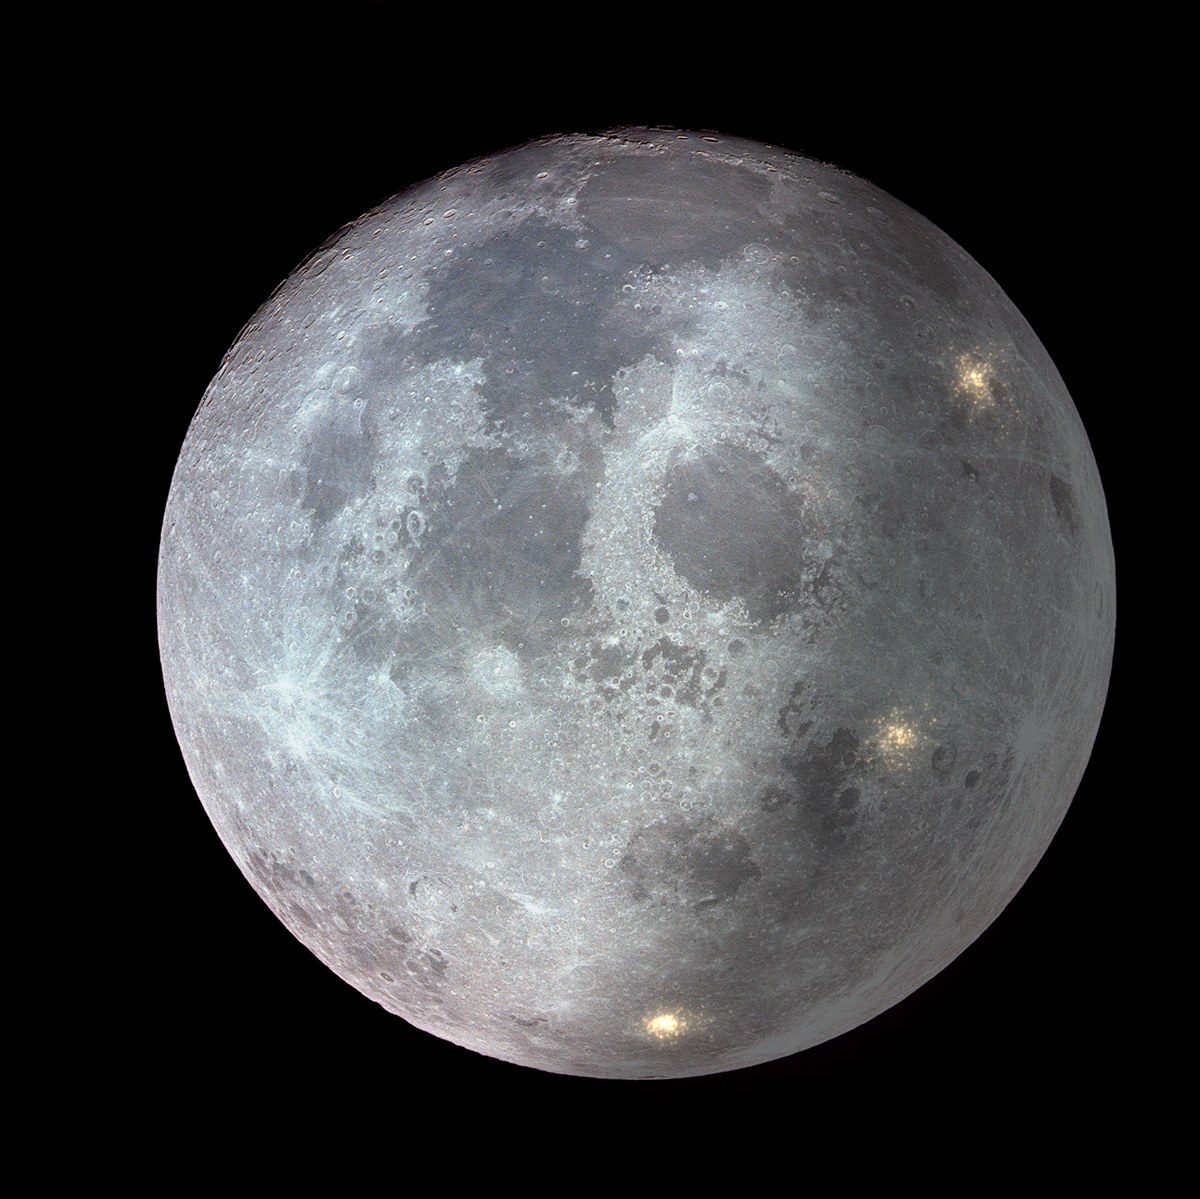
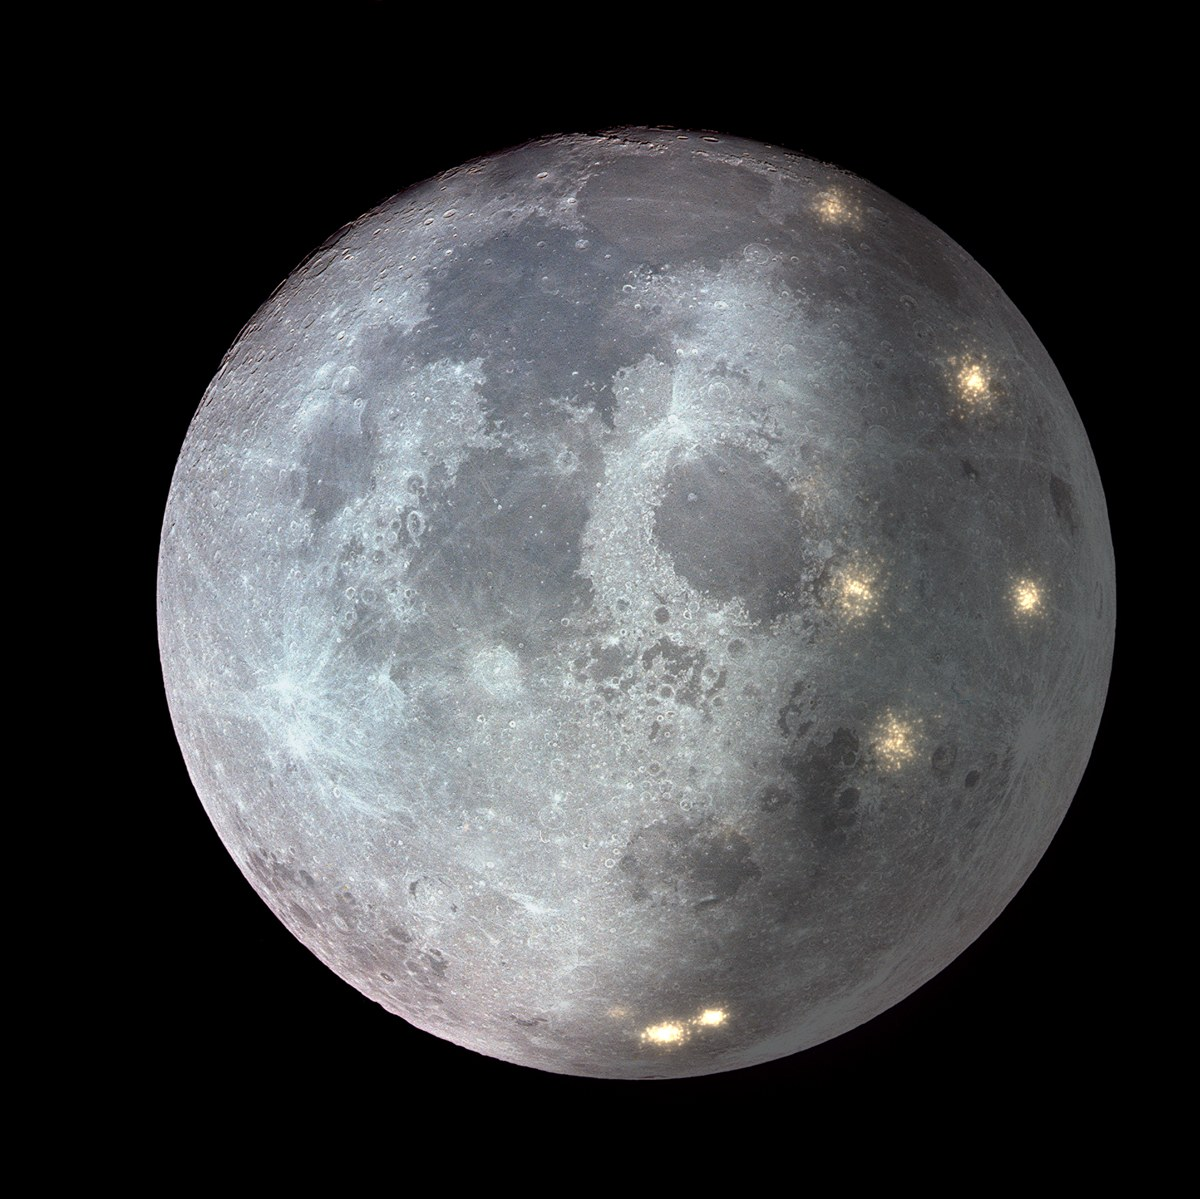
Faster Moon and Mars transitions, more developed Moon, plainer copy
- Moon and Mars now reach their future state in a few seconds
- Settled Moon gains more settlements, south-pole mining colonies and a launch track
- Rewrites the Moon, Mars, cislunar, belt and heliopause copy and several world blurbs

Claude-Session: https://claude.ai/code/session_01GXNSjP8nvqJDbdjoJYqwpt

diff --git a/index.html b/index.html
@@ -94,10 +94,10 @@ p{margin:0;max-width:34em;color:#C9CED6}
 .m-mars{-webkit-mask-image:radial-gradient(ellipse 50% 50% at 50% 50%,#000 91%,transparent 99%);mask-image:radial-gradient(ellipse 50% 50% at 50% 50%,#000 91%,transparent 99%)}
 .morph img{position:absolute;inset:0;width:100%;height:100%;object-fit:contain;transition:opacity .8s ease}
 .morph img+img{opacity:0}
-.morph.live img+img{opacity:1;transition:opacity 4s ease}
-.morph.live img:nth-child(2){transition-delay:1.6s}
-.morph.live img:nth-child(3){transition-delay:5.6s}
-.morph.live img:nth-child(4){transition-delay:9.6s}
+.morph.live img+img{opacity:1;transition:opacity 1.5s ease}
+.morph.live img:nth-child(2){transition-delay:.5s}
+.morph.live img:nth-child(3){transition-delay:1.9s}
+.morph.live img:nth-child(4){transition-delay:3.3s}
 .soon{font-size:15px;color:var(--steel)}
 .soon a,.essay a{color:var(--star);text-decoration:underline;text-underline-offset:3px;text-decoration-color:var(--steel)}
 .il{color:inherit;text-decoration:underline;text-underline-offset:3px;text-decoration-color:var(--steel)}
@@ -192,20 +192,20 @@ footer{font-family:var(--display);font-weight:500;font-size:14px;letter-spacing:
 <div class="inner"><div class="copy">
 <div class="alt">384,400 km / The Moon</div>
 <h2>Settle the Moon</h2>
-<p>Not flags and footprints. Towns, power, industry, and people who stay.</p>
-<p>Three days away, with ice at the poles, sunlight on the crater rims, and a gravity well shallow enough to ship from. The first town off Earth goes here.</p>
-</div><div class="art"><div class="morph m-moon"><img src="img/moon.jpg" alt="The Moon today"><img src="img/moon1.jpg" alt=""><img src="img/moon2.jpg" alt="The Moon with night falling and the lights of settlements across the dark side"></div><span class="cap">NASA photograph. The lights are an illustration.</span></div></div>
+<p>Not flags and footprints. Humanity is going back to the lunar surface, and this time it is to stay.</p>
+<p>The first crews will build what a base needs: power, landing pads and ice mines in the craters of the south pole. After them come the people who have no plan to leave. A town grows up around the base, and its factories ship to orbit from a world with one-sixth of Earth's gravity.</p>
+</div><div class="art"><div class="morph m-moon"><img src="img/moon.jpg" alt="The Moon today"><img src="img/moon1.jpg" alt=""><img src="img/moon2.jpg" alt="The Moon with night falling: settlement lights across the dark side, mining colonies at the south pole and the straight line of a launch track"></div><span class="cap">NASA photograph. The settlements, south-pole mines and launch track are an illustration.</span></div></div>
 </section>
 
 <section class="stage" id="cislunar" data-name="Cislunar space" data-km="450000">
 <div class="inner"><div class="copy">
 <div class="alt">Out to 450,000 km / Cislunar space</div>
 <h2 class="h2s">Build the space between</h2>
-<p>From low orbit to the far side of the Moon is one economy waiting for its infrastructure.</p>
+<p>The space between Earth and the Moon is where the first economy off the planet gets built. These are its parts.</p>
 </div><div class="art"><svg id="cis" viewBox="-70 -84 720 590" role="img" aria-label="Schematic of Earth-Moon space showing the five Lagrange points and where stations, data centres, tethers, depots, cyclers, the route out to deep space telescopes, captured asteroids and O'Neill cylinders would sit"><defs><clipPath id="ce"><circle cx="250" cy="210" r="22"></circle></clipPath><clipPath id="cm"><circle cx="550" cy="210" r="11"></circle></clipPath></defs><circle cx="250" cy="210" r="300" fill="none" stroke="#5A6478" stroke-width="1" stroke-dasharray="2 6"></circle><path d="M 250 210 L 400.0 -49.8 L 550 210 L 400.0 469.8 Z" fill="none" stroke="#465066" stroke-width="1"></path><g class="lg"><path d="M 499.7 210.0 h 10 M 504.7 205.0 v 10" stroke="#F4F5F7" stroke-width="1.2"></path><text x="504.7" y="198.0" text-anchor="middle">L1</text></g><g class="lg"><path d="M 595.4 210.0 h 10 M 600.4 205.0 v 10" stroke="#F4F5F7" stroke-width="1.2"></path><text x="600.4" y="198.0" text-anchor="middle">L2</text></g><g class="lg"><path d="M -52.9 210.0 h 10 M -47.9 205.0 v 10" stroke="#F4F5F7" stroke-width="1.2"></path><text x="-47.9" y="198.0" text-anchor="middle">L3</text></g><g class="lg"><path d="M 395.0 -49.8 h 10 M 400.0 -54.8 v 10" stroke="#F4F5F7" stroke-width="1.2"></path><text x="414.0" y="-45.8" text-anchor="start">L4</text></g><g class="lg"><path d="M 395.0 469.8 h 10 M 400.0 464.8 v 10" stroke="#F4F5F7" stroke-width="1.2"></path><text x="414.0" y="473.8" text-anchor="start">L5</text></g><circle cx="250" cy="210" r="52" fill="none" stroke="#5A6478" stroke-width="1"></circle><text class="sm" x="250" y="278" text-anchor="middle">GEO</text><image href="img/earth.jpg" x="228" y="188" width="44" height="44" clip-path="url(#ce)" preserveAspectRatio="xMidYMid slice"></image><image href="img/moon.jpg" x="539" y="199" width="22" height="22" clip-path="url(#cm)"></image><text class="sm" x="250" y="146" text-anchor="middle">EARTH</text><text class="sm" x="550" y="154" text-anchor="middle">MOON</text><g class="k" data-k="stations"><circle cx="250" cy="210" r="30" fill="none" stroke="#F4F5F7" stroke-opacity="0.5" stroke-width="1"></circle><circle class="mv" data-c="250,210" data-r="30" data-a="0" data-w="0.9" r="3.4" fill="#F4F5F7"></circle><circle class="mv" data-c="250,210" data-r="30" data-a="2.2" data-w="0.9" r="3.4" fill="#F4F5F7"></circle><circle class="mv" data-c="250,210" data-r="30" data-a="4.1" data-w="0.9" r="3.4" fill="#F4F5F7"></circle></g><g class="k" data-k="data"><circle cx="250" cy="210" r="39" fill="none" stroke="#F4F5F7" stroke-opacity="0.35" stroke-width="1" stroke-dasharray="1 3"></circle><rect class="mv" data-c="250,210" data-r="39" data-a="0.5" data-w="0.6" x="-2.8" y="-2.8" width="5.6" height="5.6" fill="#F4F5F7"></rect><rect class="mv" data-c="250,210" data-r="39" data-a="2.0" data-w="0.6" x="-2.8" y="-2.8" width="5.6" height="5.6" fill="#F4F5F7"></rect><rect class="mv" data-c="250,210" data-r="39" data-a="3.6" data-w="0.6" x="-2.8" y="-2.8" width="5.6" height="5.6" fill="#F4F5F7"></rect><rect class="mv" data-c="250,210" data-r="39" data-a="5.2" data-w="0.6" x="-2.8" y="-2.8" width="5.6" height="5.6" fill="#F4F5F7"></rect></g><g class="k" data-k="tether"><g class="mv spin" data-c="250,210" data-r="34" data-a="1.2" data-w="0.75"><line x1="-14" y1="0" x2="14" y2="0" stroke="#F4F5F7" stroke-width="1.6"></line><circle cx="14" cy="0" r="1.8" fill="#F4F5F7"></circle></g></g><g class="k" data-k="depot"><rect x="498.7" y="214.0" width="12" height="7" fill="none" stroke="#F4F5F7" stroke-width="1.4"></rect><circle class="pulse" cx="504.7" cy="217.5" r="1.6" fill="#F4F5F7"></circle></g><g class="k" data-k="cycler"><path id="cyc" d="M 300 180 C 400 110 570 140 584 210 C 592 272 400 310 300 240 C 268 218 268 202 300 180 Z" fill="none" stroke="#F4F5F7" stroke-opacity="0.55" stroke-width="1" stroke-dasharray="5 5"></path><circle class="along" data-p="cyc" data-w="0.035" r="3.2" fill="#F4F5F7"></circle></g><g class="k" data-k="scopes"><line x1="606" y1="196" x2="628" y2="112" stroke="#F4F5F7" stroke-opacity="0.55" stroke-width="1" stroke-dasharray="3 5"></line><path d="M 628 78 l 10.4 6 v 12 l -10.4 6 l -10.4 -6 v -12 z" fill="#1C212B" stroke="#F4F5F7" stroke-width="1.4"></path><path d="M 612 106 h 32" stroke="#F4F5F7" stroke-width="1.4"></path><text class="sm" x="646" y="66" text-anchor="end">TO SUN-EARTH L2</text></g><g class="k" data-k="mining"><circle cx="550" cy="210" r="46" fill="none" stroke="#F4F5F7" stroke-opacity="0.4" stroke-width="1" stroke-dasharray="2 4"></circle><path class="mv" data-c="550,210" data-r="46" data-a="3.6" data-w="0.16" d="M -5 -2 l 4 -3 l 5 1 l 2 4 l -3 4 l -6 0 z" fill="#8D95A3" stroke="#F4F5F7" stroke-width="0.8"></path></g><g class="k" data-k="oneill"><g transform="translate(374.0 -41.8) rotate(-24)"><rect x="-13" y="-4.5" width="26" height="9" rx="2" fill="#1C212B" stroke="#F4F5F7" stroke-width="1.3"></rect><line x1="-13" y1="0" x2="13" y2="0" stroke="#F4F5F7" stroke-opacity="0.5"></line></g><g transform="translate(374.0 461.8) rotate(-24)"><rect x="-13" y="-4.5" width="26" height="9" rx="2" fill="#1C212B" stroke="#F4F5F7" stroke-width="1.3"></rect><line x1="-13" y1="0" x2="13" y2="0" stroke="#F4F5F7" stroke-opacity="0.5"></line></g></g></svg><span class="cap">Schematic, not to scale. The Moon is held still; everything else moves around it.</span></div>
 <div class="copy" style="flex-basis:100%;gap:12px">
 <div class="chips" id="chips"><button class="cb" type="button" data-k="stations" aria-pressed="false">Commercial stations</button><button class="cb" type="button" data-k="data" aria-pressed="false">Orbital data centres</button><button class="cb" type="button" data-k="tether" aria-pressed="false">Orbital tethers</button><button class="cb" type="button" data-k="depot" aria-pressed="false">Propellant depots</button><button class="cb" type="button" data-k="cycler" aria-pressed="false">Cislunar cyclers</button><button class="cb" type="button" data-k="scopes" aria-pressed="false">Deep space telescopes</button><button class="cb" type="button" data-k="mining" aria-pressed="false">Asteroid mining</button><button class="cb" type="button" data-k="oneill" aria-pressed="false">O'Neill cylinders</button></div>
-<p class="desc" id="cdesc" style="max-width:60em">Five Lagrange points mark where Earth's pull and the Moon's balance. L1 and L2 are the gateways. L4 and L5 are stable enough to park a city.</p>
+<p class="desc" id="cdesc" style="max-width:60em">The five Lagrange points are where the pull of Earth and the pull of the Moon balance out. L1 and L2 are the crossroads. L4 and L5 are stable enough to park a city.</p>
 </div></div>
 </section>
 
@@ -213,8 +213,8 @@ footer{font-family:var(--display);font-weight:500;font-size:14px;letter-spacing:
 <div class="inner"><div class="art"><div class="morph m-mars"><img src="img/mars.jpg" alt="Mars today"><img src="img/mars1.jpg" alt=""><img src="img/mars2.jpg" alt=""><img src="img/mars3.jpg" alt="Mars terraformed, with a northern ocean, green land, clouds and a blue atmosphere"></div><span class="cap">Built on NASA's Mars map. The later stages are an illustration.</span></div><div class="copy">
 <div class="alt">225,000,000 km / Mars</div>
 <h2>Terraform Mars</h2>
-<p>A second living world, built on purpose, over generations.</p>
-<p>A day almost the length of ours, water locked in the ground, and room for a whole biosphere. Warm it, thicken the air, and the northern basin fills.</p>
+<p>Mars has a day of 24.6 hours, frozen water at its poles and under its soil, and about as much land as all of Earth's continents together.</p>
+<p>Today it is cold and almost airless. Warm it and thicken the atmosphere, and the northern lowlands flood. That is the work of centuries, and it begins with the first city.</p>
 </div></div>
 </section>
 
@@ -222,7 +222,7 @@ footer{font-family:var(--display);font-weight:500;font-size:14px;letter-spacing:
 <div class="inner"><div class="copy">
 <div class="alt">414,000,000 km / The asteroid belt</div>
 <h2 class="h2s">Work the belt</h2>
-<p>Water for propellant and metal for structure, already in space, with no planet's gravity to haul it out of.</p>
+<p>The belt holds water for propellant and metal for building, and none of it has to be lifted off a planet.</p>
 <div class="stats">
 <div class="stat"><b>1.1&ndash;1.9M</b><span>asteroids wider than a kilometre, by NASA's estimate. Millions more are smaller.</span></div>
 <div class="stat"><b>1/3</b><span>of the belt's mass is one body, Ceres, and Ceres carries water ice.</span></div>
@@ -248,7 +248,8 @@ footer{font-family:var(--display);font-weight:500;font-size:14px;letter-spacing:
 <div class="inner"><div class="copy">
 <div class="alt">18,000,000,000 km / The heliopause</div>
 <h2>Keep going.</h2>
-<p>Spaceward is the banner. Astronomics is where the numbers get worked: space economics and cislunar strategy, one architecture at a time.</p>
+<p>Here the Sun's wind gives out and interstellar space begins. Voyager 1 crossed this line in 2012 and is still going.</p>
+<p>The economics behind every step on this page are worked out on Astronomics.</p>
 <div class="row">
 <a class="btn" href="https://astronomics.substack.com/" target="_blank" rel="noopener">Read Astronomics</a>
 <button class="btn line" type="button" data-view-to="shop">Shop</button>
@@ -307,7 +308,7 @@ footer{font-family:var(--display);font-weight:500;font-size:14px;letter-spacing:
 
 <script>
 (function(){
-var WORLDS=[{"id": "mercury", "name": "Mercury", "img": "img/mercury.jpg", "text": "Ice sits in permanently shadowed craters at the poles, a short hop from sunlight up to ten times stronger than Earth's. A power station and a metals mine in one.", "marks": [[50, 7, "Polar ice"], [20, 52, "Solar power"]]}, {"id": "venus", "name": "Venus", "img": "img/venus.jpg", "text": "Fifty kilometres above the surface, pressure and temperature are close to Earth's. Cities could float at the cloud tops, held up by the air people breathe.", "marks": [[50, 2, "Cloud cities, 50 km up"]]}, {"id": "earth", "name": "Earth", "img": "img/earth.jpg", "text": "Home, and the reason for all of it. Every factory and mine moved off-world is weight taken off the one living planet we have.", "marks": [[50, 50, "Home"]]}, {"id": "mars", "name": "Mars", "img": "img/mars.jpg", "text": "The most Earthlike world within reach: a day of 24.6 hours, water ice at the poles and in the ground, and carbon dioxide to thicken into air.", "marks": [[50, 5, "Polar ice"], [56, 52, "Valles Marineris"]]}, {"id": "jupiter", "name": "Jupiter", "img": "img/jupiter.jpg", "text": "Its moon Europa hides an ocean thought to hold about twice the water of all Earth's seas, the best place we know to look for other life. Callisto sits outside the worst radiation and could host a base.", "marks": [[103, 30, "Europa"], [-3, 72, "Callisto"]]}, {"id": "saturn", "name": "Saturn", "img": "img/saturn.jpg", "text": "Titan has a thick atmosphere and seas of liquid methane: a whole world of fuel and feedstock. Enceladus sprays its ocean into space, ready to sample.", "marks": [[90, 22, "Titan"], [8, 80, "Enceladus"], [50, 56, "Ring ice"]]}, {"id": "uranus", "name": "Uranus", "img": "img/uranus.jpg", "text": "Its atmosphere carries helium-3, a fusion fuel, in a gravity well shallow enough to climb back out of. The long-range fuel depot.", "marks": [[50, 50, "Helium-3"]]}, {"id": "neptune", "name": "Neptune", "img": "img/neptune.jpg", "text": "The outermost giant. Its moon Triton is a captured world with nitrogen geysers, and the last harbour before the dark.", "marks": [[102, 28, "Triton"]]}, {"id": "pluto", "name": "Pluto", "img": "img/pluto.jpg", "text": "Mountains of water ice and plains of frozen nitrogen. The front door to the Kuiper belt and the icy worlds beyond it.", "marks": [[58, 62, "Nitrogen ice plains"]]}], CIS={"stations": "Labs, factories and hotels in low orbit, taking over from the ISS.", "data": "Compute in near-constant sunlight, shedding heat straight to deep space.", "tether": "Rotating cables that catch a payload and sling it onward, trading momentum for propellant.", "depot": "Fuel stations at L1, the balance point between Earth and Moon.", "cycler": "Ships on repeating loops between Earth and Moon. Board, ride, step off.", "scopes": "Observatories like Webb and Roman work from Sun-Earth L2, 1.5 million km out, where it is cold, dark and steady. The next ones get assembled and serviced from here.", "mining": "Small asteroids towed into lunar orbit and taken apart for water and metal.", "oneill": "Spinning habitats kilometres long at the stable points L4 and L5, with land, weather and gravity inside."};
+var WORLDS=[{"id": "mercury", "name": "Mercury", "img": "img/mercury.jpg", "text": "Ice sits in permanently shadowed craters at the poles, a short distance from sunlight up to ten times stronger than Earth's. That makes it good ground for solar power and metal mining.", "marks": [[50, 7, "Polar ice"], [20, 52, "Solar power"]]}, {"id": "venus", "name": "Venus", "img": "img/venus.jpg", "text": "Fifty kilometres above the surface, pressure and temperature are close to Earth's. Cities could float at the cloud tops, held up by the air people breathe.", "marks": [[50, 2, "Cloud cities, 50 km up"]]}, {"id": "earth", "name": "Earth", "img": "img/earth.jpg", "text": "Home. Moving mining and heavy industry off-world takes pressure off the one living planet we have.", "marks": [[50, 50, "Home"]]}, {"id": "mars", "name": "Mars", "img": "img/mars.jpg", "text": "The most Earthlike world within reach: a day of 24.6 hours, water ice at the poles and in the ground, and carbon dioxide to thicken into air.", "marks": [[50, 5, "Polar ice"], [56, 52, "Valles Marineris"]]}, {"id": "jupiter", "name": "Jupiter", "img": "img/jupiter.jpg", "text": "Its moon Europa hides an ocean thought to hold about twice the water of all Earth's seas, the best place we know to look for other life. Callisto sits outside the worst radiation and could host a base.", "marks": [[103, 30, "Europa"], [-3, 72, "Callisto"]]}, {"id": "saturn", "name": "Saturn", "img": "img/saturn.jpg", "text": "Titan has a thick atmosphere and seas of liquid methane, a ready supply of fuel and chemical feedstock. Enceladus sprays water from its buried ocean into space, where a probe can sample it.", "marks": [[90, 22, "Titan"], [8, 80, "Enceladus"], [50, 56, "Ring ice"]]}, {"id": "uranus", "name": "Uranus", "img": "img/uranus.jpg", "text": "Its atmosphere carries helium-3, a possible fusion fuel, and its gravity is weak enough for a tanker to climb back out. A candidate fuel source for the far future.", "marks": [[50, 50, "Helium-3"]]}, {"id": "neptune", "name": "Neptune", "img": "img/neptune.jpg", "text": "The outermost giant. Its largest moon, Triton, has nitrogen geysers and was probably captured from the Kuiper belt, which makes it a natural base for exploring what lies beyond.", "marks": [[102, 28, "Triton"]]}, {"id": "pluto", "name": "Pluto", "img": "img/pluto.jpg", "text": "Mountains of water ice and plains of frozen nitrogen. It is the best-studied world of the Kuiper belt and a first stop on the way through it.", "marks": [[58, 62, "Nitrogen ice plains"]]}], CIS={"stations": "Labs, factories and hotels in low orbit, taking over from the ISS.", "data": "Compute in near-constant sunlight, shedding heat straight to deep space.", "tether": "Rotating cables that catch a payload and sling it onward, trading momentum for propellant.", "depot": "Fuel stations at L1, the balance point between Earth and Moon.", "cycler": "Ships on repeating loops between Earth and Moon. Board, ride, step off.", "scopes": "Observatories like Webb and Roman work from Sun-Earth L2, 1.5 million km out, where it is cold, dark and steady. The next ones get assembled and serviced from here.", "mining": "Small asteroids towed into lunar orbit and taken apart for water and metal.", "oneill": "Spinning habitats kilometres long at the stable points L4 and L5, with land, weather and gravity inside."};
 var $=function(id){return document.getElementById(id);};
 var sky=$('sky'), rail=document.querySelector('.rail'), ship=$('ship'), altv=$('altv'), alts=$('alts'), map=$('map');
 var stages=[].slice.call(document.querySelectorAll('.stage'));
